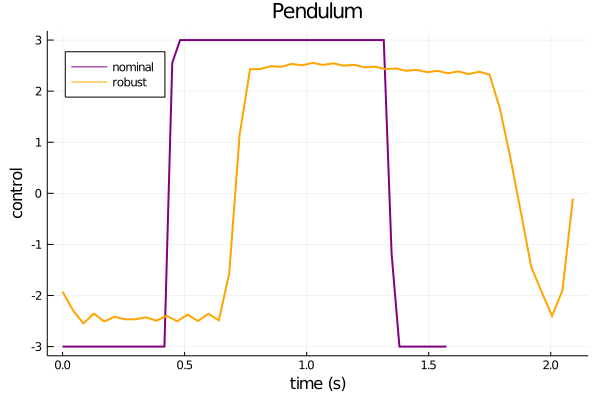
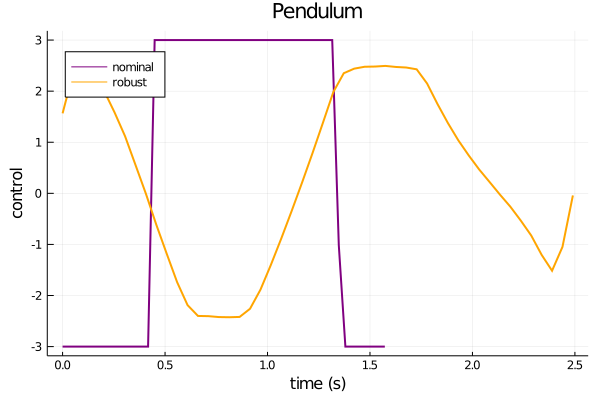
robust examples working

diff --git a/README.md b/README.md
@@ -29,13 +29,17 @@ git clone https://github.com/thowell/DIRTREL.jl
 ```
 
 ## Examples
-The [pendulum](https://github.com/thowell/DIRTREL.jl/blob/master/examples/pendulum_robust.jl) and [cartpole](https://github.com/thowell/DIRTREL.jl/blob/master/examples/cartpole_robust.jl) examples from the paper are reproduced* using [Ipopt](https://github.com/coin-or/Ipopt)
+The [pendulum](https://github.com/thowell/DIRTREL.jl/blob/master/examples/pendulum_robust.jl) and [cartpole](https://github.com/thowell/DIRTREL.jl/blob/master/examples/cartpole_robust.jl) examples from the paper are reproduced*.
 
+### Pendulum
 ![](examples/results/pendulum_state.png)
-
 ![](examples/results/pendulum_control.png)
 
-*Note: Because the open-source solver Ipopt is used in place of SNOPT, the exact problem being solved is slightly modified to produced similar qualitative behavior.
+### Cartpole
+![](examples/results/cartpole_state.png)
+![](examples/results/cartpole_control.png)
+
+*Note: Because the open-source non-convex solver [Ipopt](https://github.com/coin-or/Ipopt) is used in place of [SNOPT](https://web.stanford.edu/group/SOL/snopt.htm), the optimized trajectories differ slightly, but the qualitative behavior is similar.
 
 ## TODO
 - [ ] add linear robust state bounds
